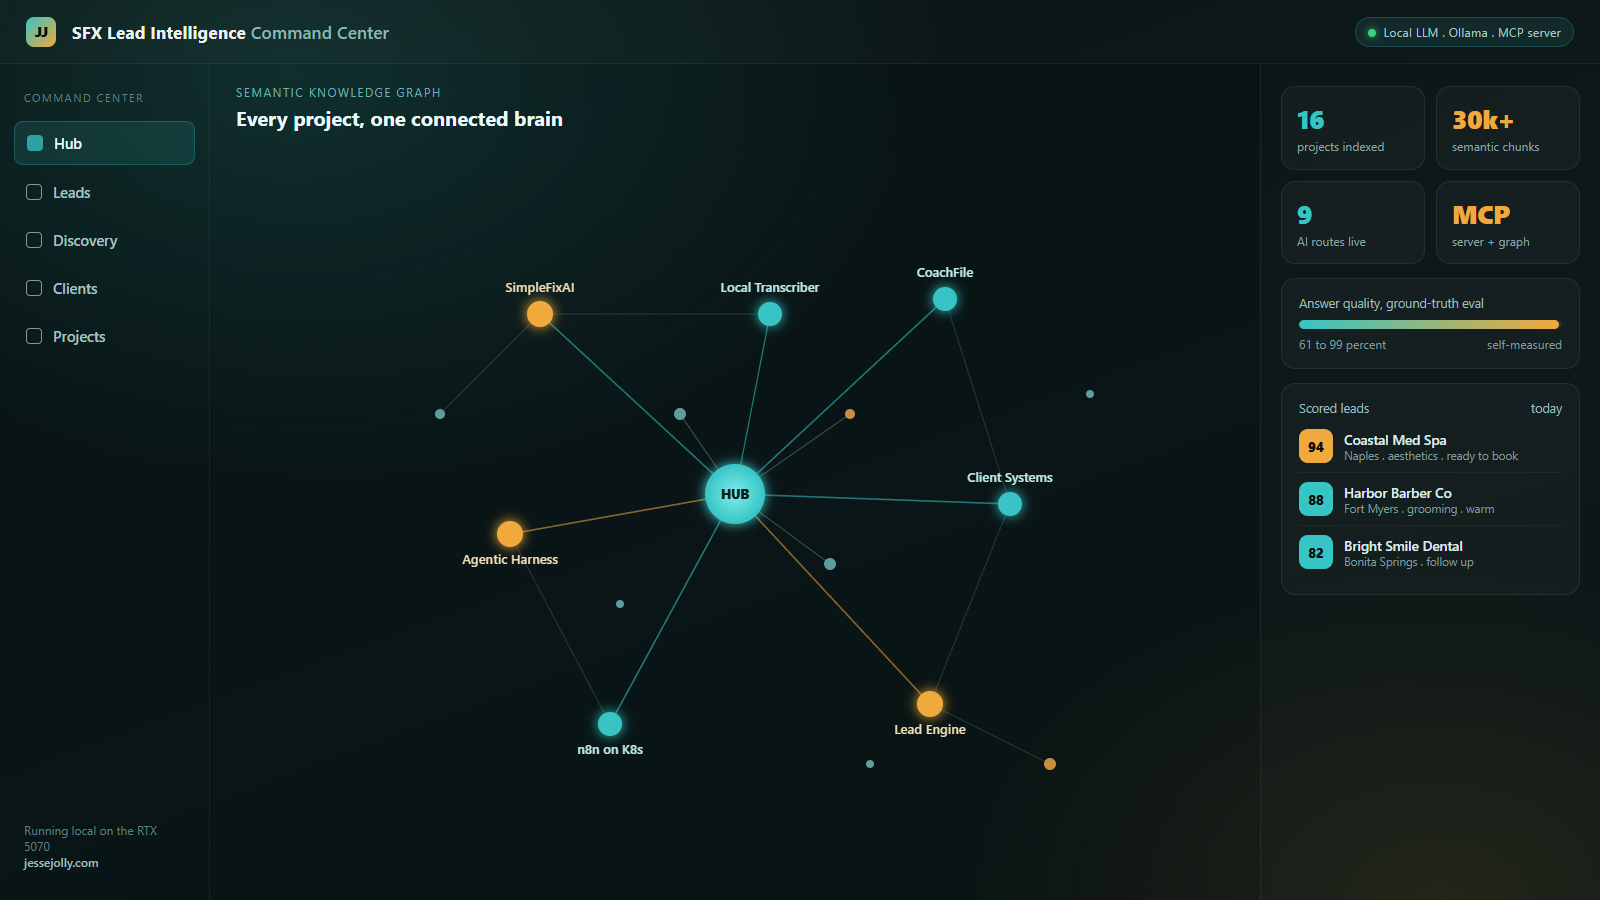
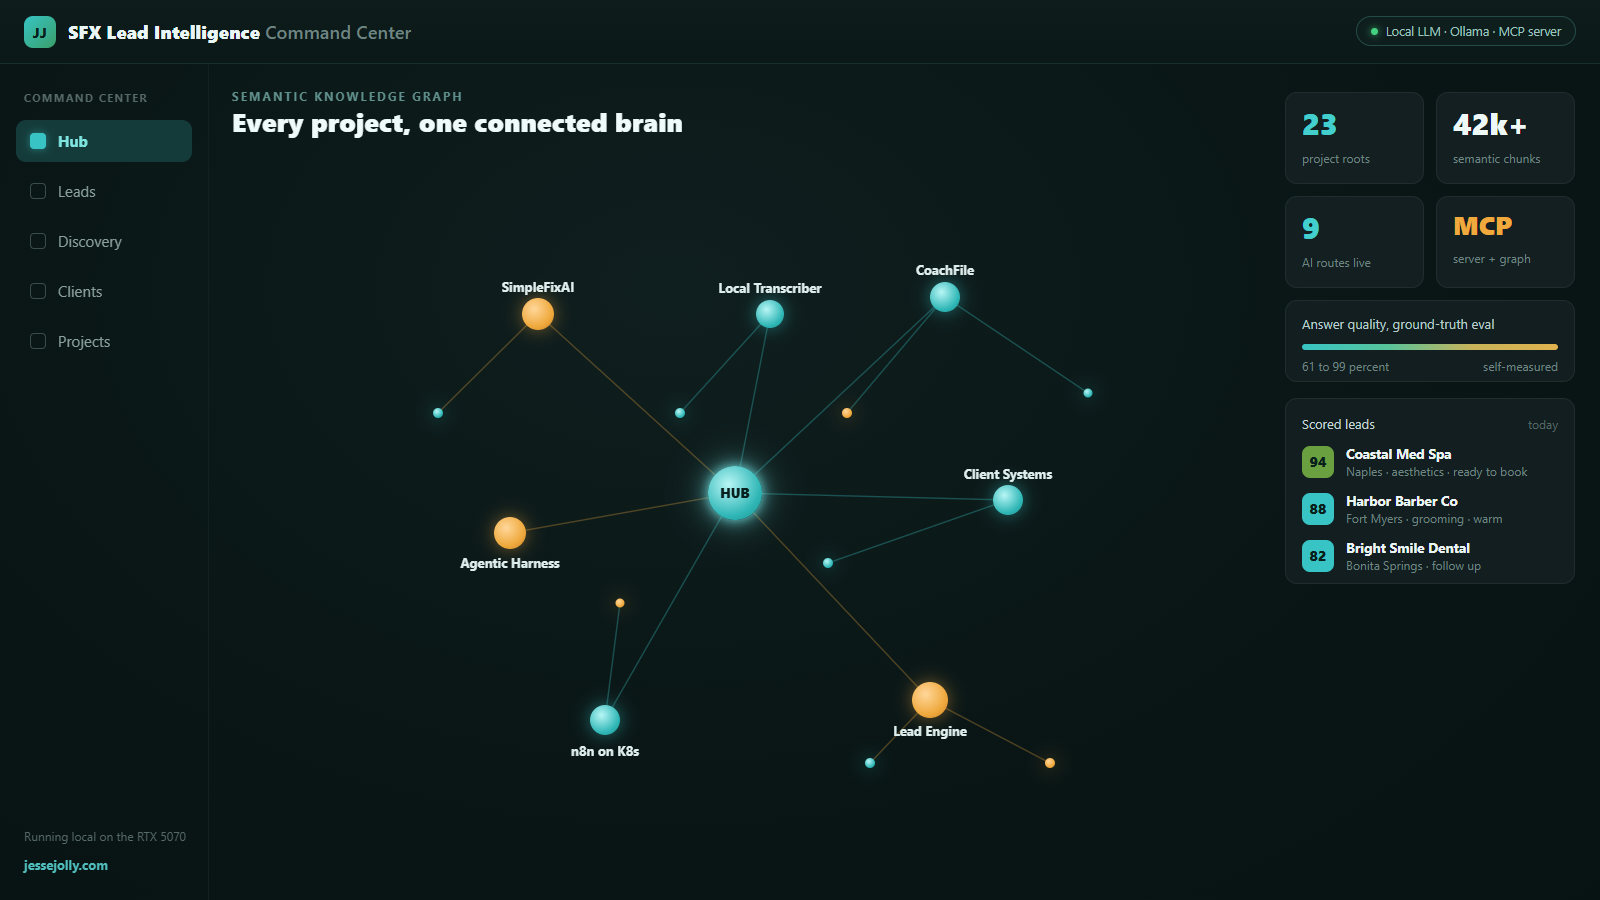
docs: refresh showcase to current facts (23 project roots) + rebuild hero (#1)
Context Hub is now 23 project roots (LanceDB-backed, clean deduplicated
rebuild), replacing the stale "21 projects / 43,006 chunks" figures.

- README: anchor on "23 project roots" in headline, body, and Mermaid
- README: name LanceDB as the local vector store (retrieval depth)
- README: add the self-hosted n8n operations mesh at capability level
  (Docker + local Ollama, governed, human-in-the-loop, no cloud inference)
- Mermaid: add ops-mesh node, update project anchor and index label
- Hero image: re-render at 1600x900 with corrected tiles
  (16 projects -> 23 project roots, 30k+ -> 42k+ semantic chunks);
  9 AI routes, MCP, and 61 to 99 percent self-measured kept
- Kept the "In plain terms" plain-language layer throughout
- No em or en dashes

Claude-Session: https://claude.ai/code/session_011g53EK6NgzhKjNQCG4qWpH

diff --git a/README.md b/README.md
@@ -1,6 +1,6 @@
 # SFX Lead Intelligence Command Center
 
-> A local-LLM command center: a semantic hub over 21 of my projects (43,006 chunks) with a knowledge graph and an MCP server, plus a lead-intelligence dashboard with 9 AI routes. Runs entirely on my own GPU. No cloud.
+> A local-LLM command center: a semantic hub over 23 of my project roots with a knowledge graph and an MCP server, plus a lead-intelligence dashboard with 9 AI routes. Runs entirely on my own GPU. No cloud.
 
 > **In plain terms:** This is a private AI setup that runs on my own computer instead of a paid cloud service, so my data stays with me. One half helps me search everything I have built, and the other half helps me study and reach out to new business leads.
 
@@ -24,9 +24,11 @@
 
 Two halves of one local-LLM (AI models that run on my own hardware, not a cloud service) workbench I built to run my own company on:
 
-**1. Context Hub**: a semantic index (a search that matches by meaning, not just exact keywords) over **21 of my projects (43,006 chunks)** with a force-directed **knowledge graph** (an interactive map of how those projects and topics connect) and an **MCP server** (a standard way for outside AI tools to plug into this data), so any AI agent (or I) can search, ask questions across, and reason over my entire body of work. Fully local embeddings (numeric fingerprints of text that let a computer compare meaning); nothing leaves the machine.
+**1. Context Hub**: a semantic index (a search that matches by meaning, not just exact keywords) over **23 of my project roots**, held in a local vector store (LanceDB), with a force-directed **knowledge graph** (an interactive map of how those projects and topics connect) and an **MCP server** (a standard way for outside AI tools to plug into this data), so any AI agent (or I) can search, ask questions across, and reason over my entire body of work. The index is a clean, deduplicated rebuild that honors each project's ignore rules. Fully local embeddings (numeric fingerprints of text that let a computer compare meaning); nothing leaves the machine.
 
 **2. Lead Intelligence Dashboard** (one screen that brings the lead information together): a command-center UI over scanned Southwest-Florida business leads (fed by an upstream n8n pipeline), with **9 local-LLM AI routes** spanning research, outreach drafting, and sales preparation.
+
+Feeding the command center is a **self-hosted n8n operations mesh** (Docker plus local Ollama) that runs my back office as governed, human-in-the-loop agents: it classifies billing and vendor issues, grounds and lints outreach drafts before they are ever sent, and watches releases, then files action items back into this dashboard. Every model step runs on local hardware, so there is no cloud inference cost, and the agents draft and flag rather than act on their own.
 
 ## The part I'm proudest of: a ground-truth eval harness
 
@@ -40,8 +42,9 @@ Anyone can make an LLM answer. The hard problem is knowing whether the answer is
 
 ```mermaid
 flowchart LR
-    P["21 projects · 43k+ chunks"] --> EMB["Local embeddings + index"]
+    P["23 project roots"] --> EMB["Local embeddings + LanceDB index"]
     LEADS["Scanned SWFL leads<br/>(n8n pipeline → Sheet)"] --> DASH
+    OPS["n8n ops mesh<br/>(local Ollama, human-in-the-loop)"] --> DASH
     EMB --> HUB["Context Hub:<br/>semantic search · Q&A · knowledge graph · MCP"]
     EMB --> DASH["Lead dashboard:<br/>9 local-LLM AI routes"]
     HUB --> EVAL["Ground-truth eval harness<br/>(61% → 99%, gates releases)"]
@@ -56,9 +59,9 @@ flowchart LR
 |---|---|
 | App | Next.js 15 (App Router, TypeScript) |
 | Local LLM | Ollama (qwen3) + nomic-embed, on-GPU, offline |
-| Retrieval | Semantic index (RAG, meaning the AI looks up my own documents before it answers) + force-directed knowledge graph |
+| Retrieval | LanceDB vector store + semantic index (RAG, meaning the AI looks up my own documents before it answers) + force-directed knowledge graph |
 | Interop | Model Context Protocol (MCP) server |
-| Upstream | n8n lead-generation pipeline → Google Sheets |
+| Automation | Self-hosted n8n operations mesh (Docker + local Ollama), governed and human-in-the-loop; upstream lead-generation pipeline → Google Sheets |
 | Quality | Custom ground-truth evaluation harness (20+ query types) |
 
 ## Status
